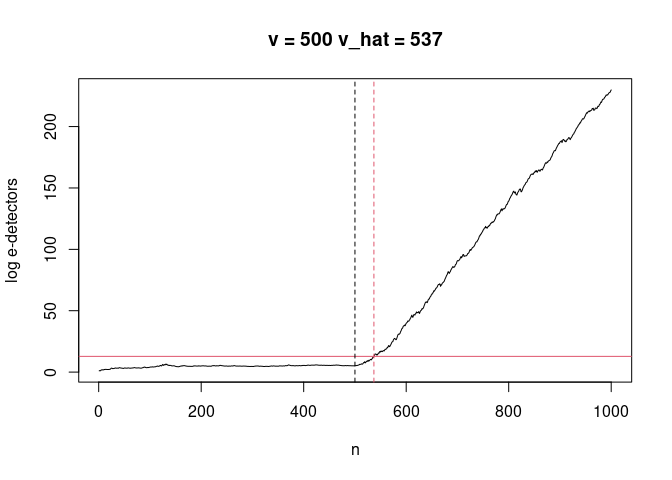
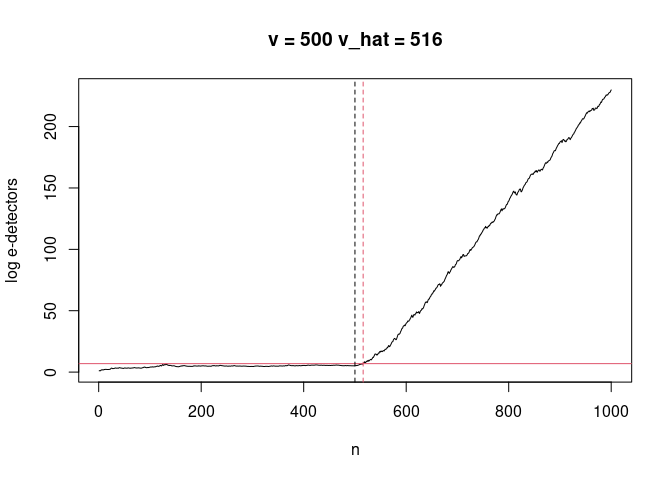
Correct threshold in examples

Changed region(s): [[0.5312, 0.1875, 0.5625, 0.7812], [0.625, 0.0625, 0.6562, 0.0938]]

diff --git a/README.md b/README.md
@@ -51,13 +51,14 @@ Below, we compute a mixture e-detectors by which we can infer when the
 change of the mean happened.
 
 ``` r
+alpha <- 1e-3 # Inverse of target ARL
 m <- 0.2 # Upper bound of mean of pre-change observations
 d <- 0.1  # Guess on the minimum gap between pre- and post-change means
 E_fn_list <- generate_sub_E_fn()
 
 # Compute parameters
 base_param <- compute_baseline(
-  alpha = 1e-3,
+  alpha = alpha,
   delta_lower = m * d / (1/4 + (1-m)^2), # 0.0225
   delta_upper = m * (1-m) / d^2,  # 16
   psi_fn_list = generate_sub_E_fn(),
@@ -77,13 +78,13 @@ mix_SR <- update_log_mix_e_detectors(x_vec,
 
 # Inferred change-point
 mix_SR_stop <- min(
-  which(mix_SR$log_mix_e_detect_val > base_param$g_alpha)
+  which(mix_SR$log_mix_e_detect_val > log(1/alpha))
   )
 
 # Plot 
 plot(1:max_sample, mix_SR$log_mix_e_detect_val, type = "l",
      xlab = "n", ylab = "log e-detectors", main = paste0("v = ", nu, " v_hat = ",mix_SR_stop))
-abline(h = base_param$g_alpha, col = 2)
+abline(h = log(1/alpha), col = 2)
 abline(v = nu, col = 1, lty = 2)
 abline(v = mix_SR_stop, col = 2, lty = 2)
 ```
